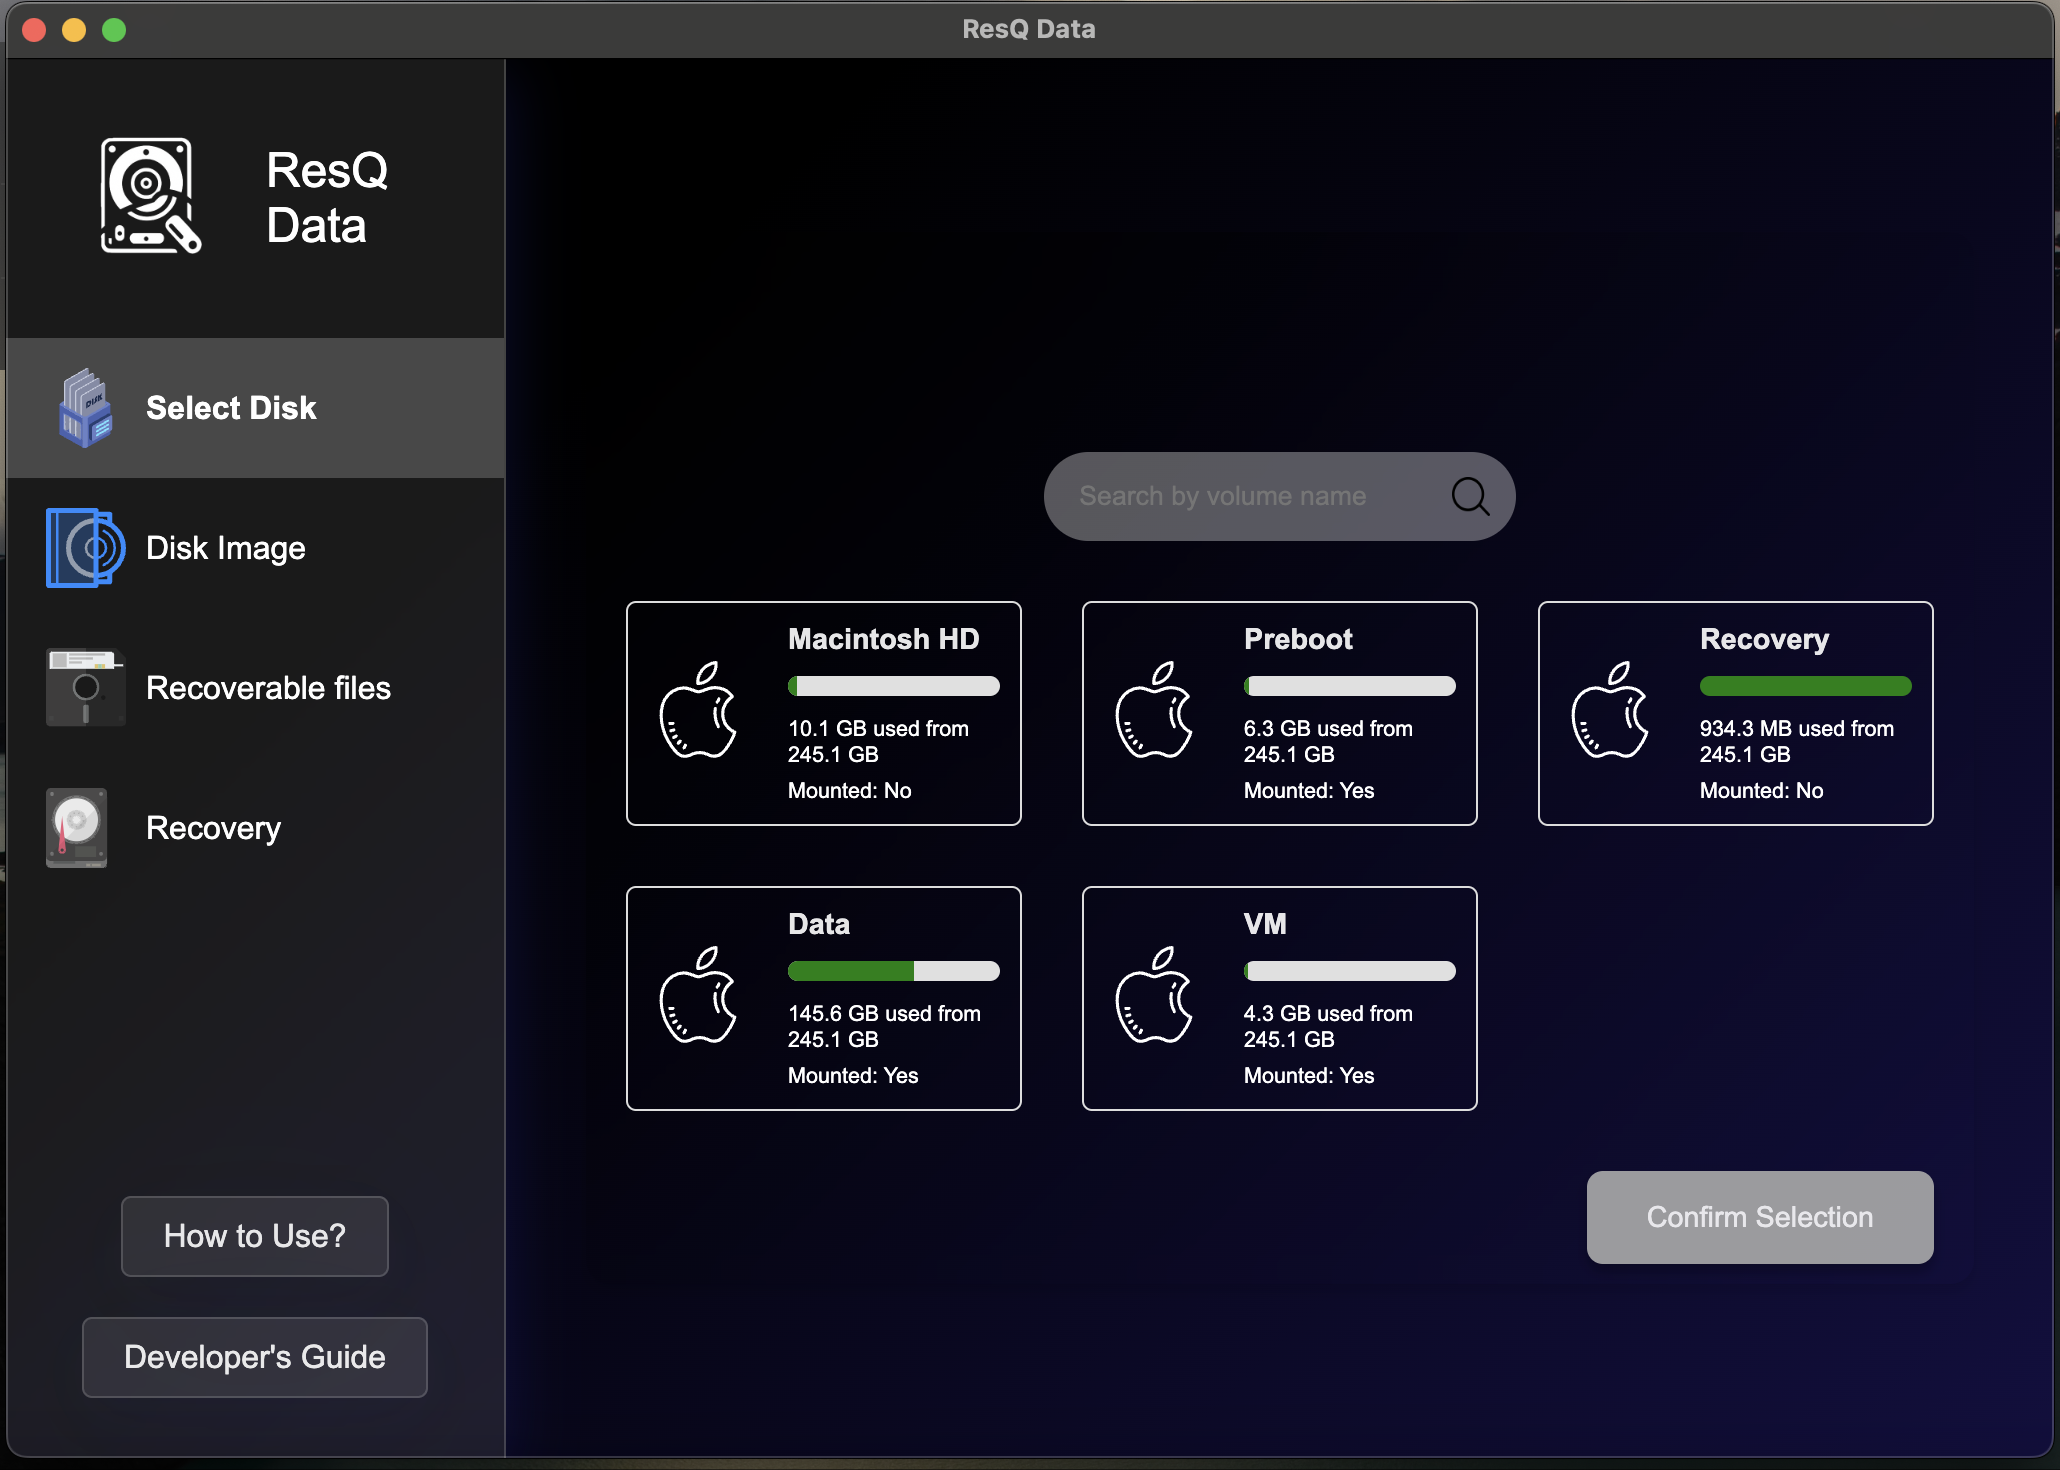
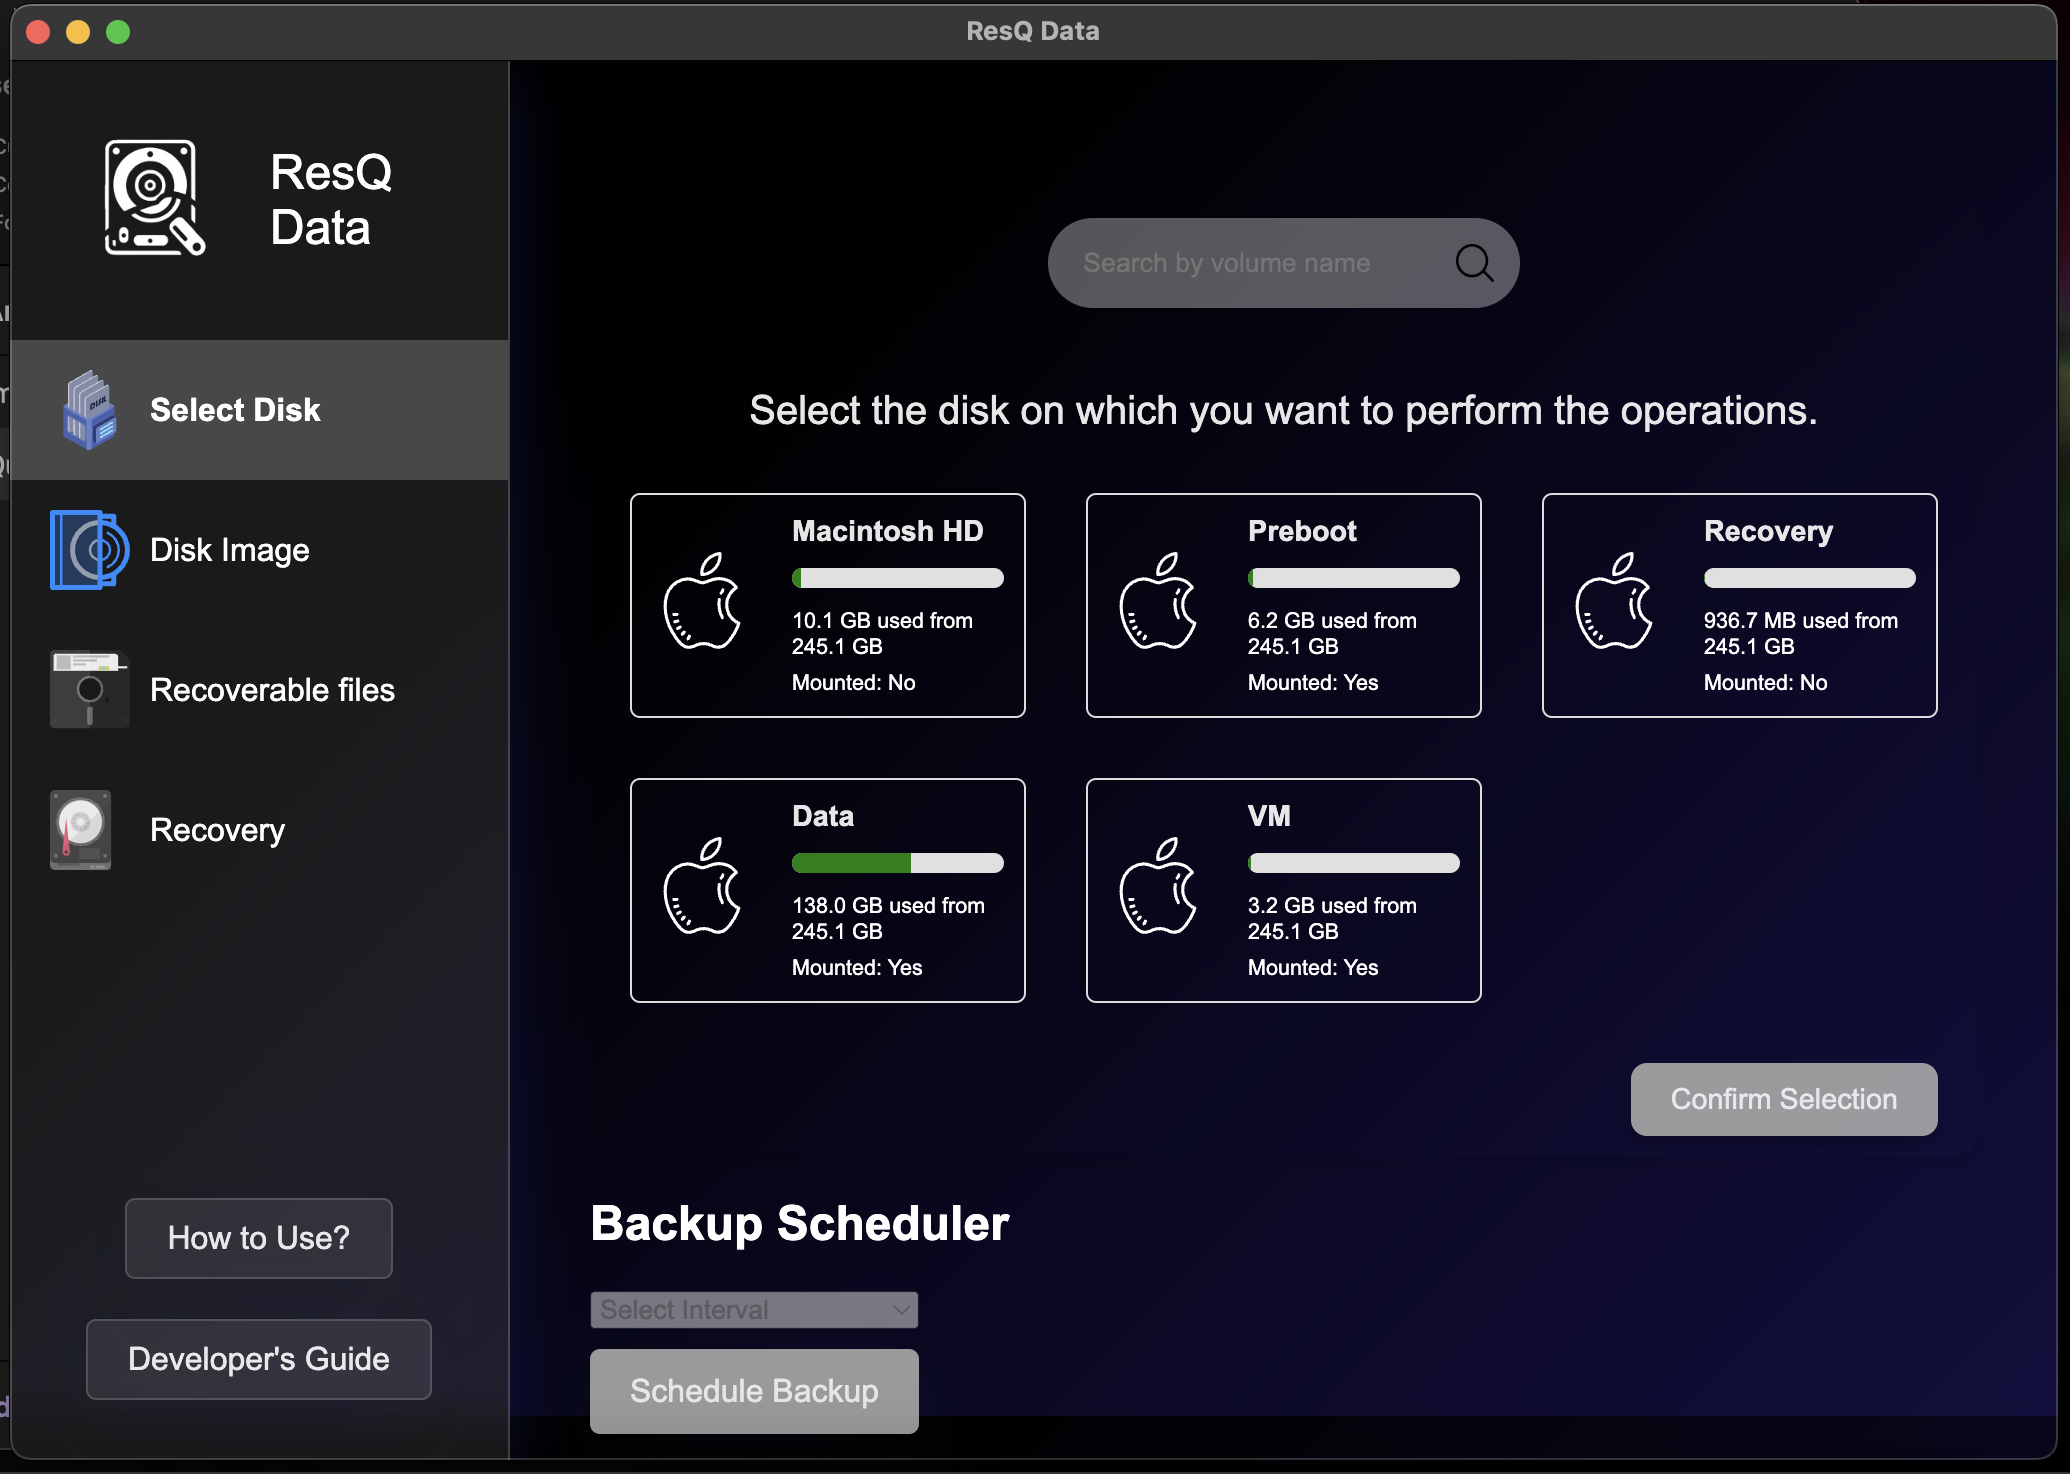
updated ss

diff --git a/src/components/HowToUse.tsx b/src/components/HowToUse.tsx
@@ -1,5 +1,6 @@
 import React from 'react';
 // import './HowToUse.css';
+import r from '../../assets/recovery.svg';
 
 const HowToUse: React.FC = () => {
   return (
@@ -7,7 +8,11 @@ const HowToUse: React.FC = () => {
       <h1>How to Use ResQ Data</h1>
       <p>Welcome to the ResQ Data guide. Here you'll find instructions on how to use the application effectively.</p>
       <ul>
-        <li>Step 1: Select a disk from the 'Select Disk' page.</li>
+        <li>Step 1: Select the disk on which you want to perform the operations.
+            If you want to take the disk image backup then select the interval and schedule backup, 
+            else click confirm selection to continue with the data recovery process.
+        </li>
+
         <li>Step 2: Create a disk image from the 'Disk Image' page.</li>
         <li>Step 3: View and select recoverable files from the 'Recoverable Files' page.</li>
         <li>Step 4: Recover selected files from the 'Recovery' page.</li>
